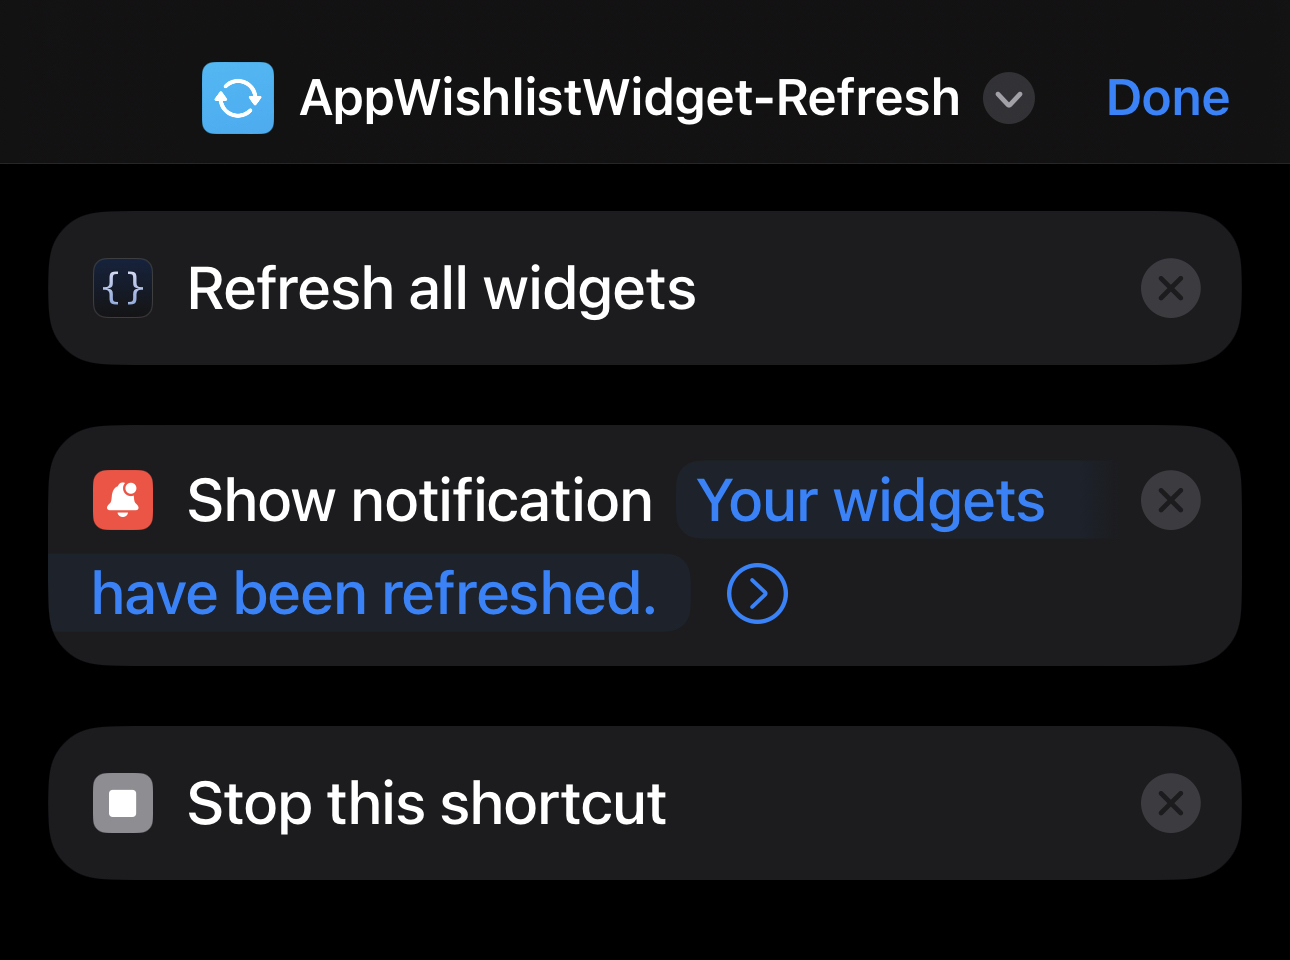
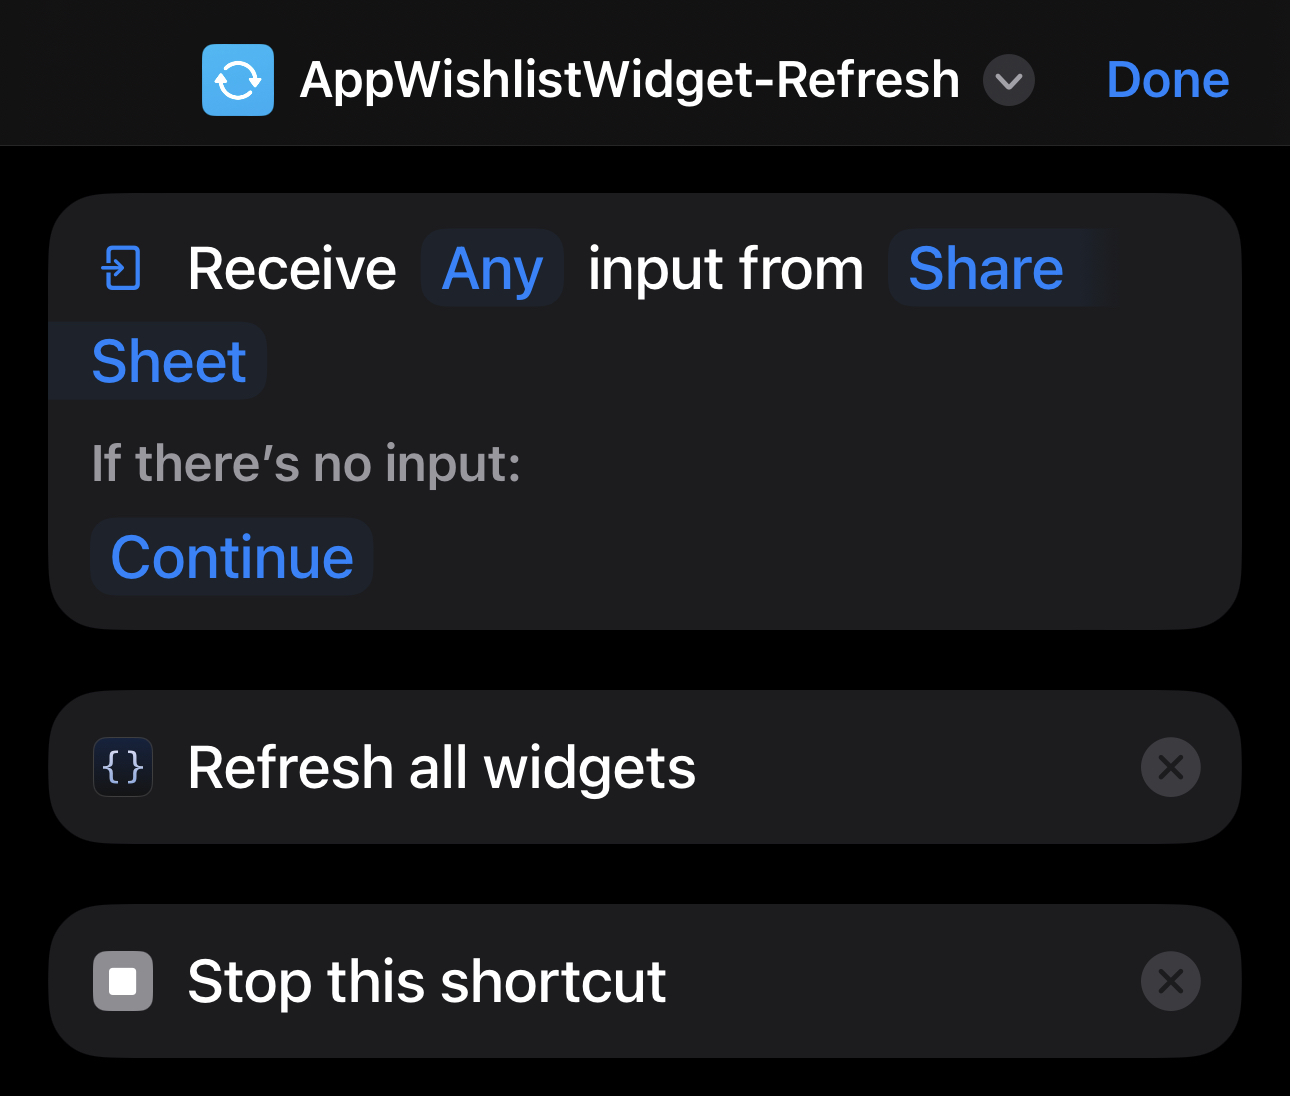
Deleted: • AddAppToWishlist-ShortcutScreenshot.jpg
Added:
• AddAppToWishlist-ShortcutScreenshot.png
• AppWishlistWidget-ExampleScreenshot.png

Updated:
• AppWishlistWidget-Refresh-ShortcutScreenshot.png
• AppWishlistWidget-Add.js
• AppWishlistWidget-Remove.js

diff --git a/AppWishlistWidget-Remove.js b/AppWishlistWidget-Remove.js
@@ -10,12 +10,15 @@ const SAVE_DIR_PATH = FM.joinPath(LIB_DIR, SAVE_DIR_NAME)
 const DB_FNAME = 'appwishlist_db.json'
 const DB_FPATH = FM.joinPath(SAVE_DIR_PATH, DB_FNAME)
 
-
 var wishlist
 var wishlistjson
 var removedAppName
 var updatedwishlistjson
 var updatedwishlist = {}
+let msg
+let req
+let alert
+let action
 
 if(FM.fileExists(DB_FPATH)){
 	wishlistjson = await FM.readString(DB_FPATH)
@@ -31,10 +34,22 @@ for(const [key, value] of Object.entries(wishlist)){
 	}
 }
 
-updatedwishlistjson = JSON.stringify(updatedwishlist)
-FM.writeString(DB_FPATH, updatedwishlistjson)
+if(APP_ID in updatedwishlist){
+	msg = 'Unable to remove "' + removedAppName + '" from the app wishlist.'
+} else {
+	updatedwishlistjson = JSON.stringify(updatedwishlist)
+	FM.writeString(DB_FPATH, updatedwishlistjson)
+	
+	req = new Request('shortcuts://run-shortcut?name=AppWishlistWidget-Refresh&refscript=Remove')
+	req.method = 'GET'
+	await req.load()
+	msg = '"' + removedAppName + '" was removes from the app wishlist.'
+}
 
-let alert = new Alert()
-alert.message = '"' + removedAppName + '" was removed from the App Wishlist.'
-alert.title = 'App Wishlist Widget'
-alert.present()
+alert = new Alert()
+alert.title = 'App Wishlist Widget Notice'
+alert.message = msg
+alert.addAction('Ok')
+action = alert.present()
+console.log(action)
+Script.complete()

diff --git a/AppWishlistWidget-Add.js b/AppWishlistWidget-Add.js
@@ -11,7 +11,7 @@ const SAVE_DIR_PATH = FM.joinPath(LIB_DIR, SAVE_DIR_NAME)
 const DB_FNAME = 'appwishlist_db.json'
 const DB_FPATH = FM.joinPath(SAVE_DIR_PATH, DB_FNAME)
 
-let resp
+let msg
 let wishlist
 let wishlistjson
 let updatedwishlistjson
@@ -37,9 +37,7 @@ wishlistjson = await FM.readString(DB_FPATH)
 wishlist = JSON.parse(wishlistjson)
 
 if(wishlistitemkey in wishlist){
-	resp = appname + ' has already been added to your wishlist.'
-	Script.setShortcutOutput(resp)
-	Script.complete()
+	msg = '"' + appname + '" has already been added to the app wishlist.'
 } else {
 	wishlist[wishlistitemkey] = {
 		name: appname,
@@ -51,10 +49,11 @@ if(wishlistitemkey in wishlist){
 	}
 	updatedwishlistjson = JSON.stringify(wishlist)
 	FM.writeString(DB_FPATH, updatedwishlistjson)
-	resp = appname + ' has been added to your wishlist.'
-	Script.setShortcutOutput(resp)
-	Script.complete()
+	msg = '"' + appname + '" was added to the app wishlist.'
 }
+
+Script.setShortcutOutput(msg)
+Script.complete()
 
 
 
